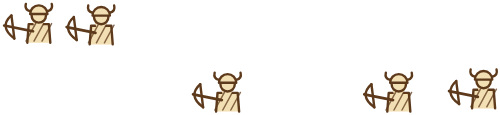
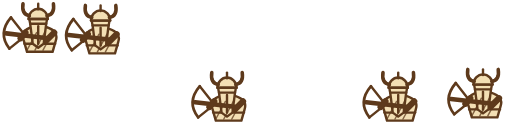
Redraw the rifle crew figures from the game models and their textures

diff --git a/tools/web_art.py b/tools/web_art.py
@@ -888,37 +888,116 @@ def aboard_frames():
 CREW_PLACES = [(x, y) for x, y in art.RIFLE_PLACES if (x, y + 2) != MALAKAI_AT]
 
 
-def crew_figure(kind, x, y, s=0.9):
-    """A dwarf of the crew at the rail, told apart by the outline: pirates bare-headed with a crest and a pistol in each hand, crossbowmen in a helm with
-    a crossbow, the others the panel's own dwarf with a long gun (thicker for the grudge-rakers, a tube for the torpedoes)."""
+# The figures of the rifle crews are drawn from the game's models (rendered front and side into build/crew_models/<kind>_ref.png; nothing of the
+# game is kept in the repository). What the models are, and what tells a kind apart when the figure is 20 px tall on the screen:
+#   a dwarf        1.4 to 1.5 high and 1.4 across the hanging arms; the head with its beard is a third of the height, the shoulders nearly as wide as
+#                  the dwarf is tall, the legs a quarter. Behind the rail he shows from the belt up: a wide block of shoulders, a big head set low.
+#   pirates        dwf_slayer_pirates: a bare bald head with a headscarf knotted behind, a huge moustache standing out to both sides, a beard in
+#                  thick plaits over a bare chest, bracers; no helm, no crest. A flintlock pistol with a flared muzzle, half his height, in each hand.
+#                  Told by: bare skin, the moustache's bar across the face, two short guns held out.
+#   quarrellers, thunderers, grudge-rakers    one body (dwf_warriors): a round helm with two horns up and a spike, a plaited beard to the belt, mail,
+#                  a skirt. Told only by the weapon: the crossbow (0.9 long, its bow 0.77 across), the rifle (1.3, nearly his height, thin), the
+#                  grudge-raker (1.4, a thick bundle of barrels with a drum behind).
+#   torpedoes      dwf_irondrakes: a flat-topped closed helm with eye slits and no horns, a square beard of plates, heavy pauldrons, an apron. The
+#                  drakegun is a fat tank 1.2 long with a thin nozzle. Told by: the flat helm, the square shoulders, the barrel-thick gun.
+# Colours from the models' own base colour textures (decoded into build/crew_models/tex, not kept): the pirate's skin a warm pink tan, his beard
+# ginger, his headscarf red (it is on the head's texture, with the knot's tails in the mesh); the warriors' mail silver grey with gold trim, the
+# beard brown, the helm steel with bone horns; the irondrake's plate blue steel with gold, his drakegun copper; the thunderers' rifle grey steel on
+# a brown stock; the grudge-raker steel barrels under much brass.
+SKIN, GINGER, SCARF = "#d48e66", "#b5622a", "#a8261a"
+MAIL, GOLD, BROWN, BONE, HELM = "#8f9296", "#c9a23c", "#6e4a2a", "#e8dcc0", "#7d7870"
+PLATE, DRAKE, WOOD, BARREL = "#66727c", "#a8623c", "#6b4320", "#3d3a36"
+
+
+def crew_figure(kind, x, y, s=1.0, detail=True):
+    """A dwarf of a rifle crew at the rail, from the belt up, turned to the bow (left), after the game's model of its unit (see above): sloping
+    shoulders wider than the head, the arms holding the weapon. detail False: without the small strokes (plaits, bands, trim)."""
+    P = lambda dx, dy: f"{x + dx * s:.1f} {y + dy * s:.1f}"
+    line = lambda d, w=1.0, fill="none", color=art.INK: art.path(d, w * s, color, fill)
+
+    def limb(d, colour, w=3.4):         # an arm: the colour inside an ink line
+        return [line(d, w + 1.6), line(d, w, color=colour)]
+
+    out = []
+    warrior = kind in ("quarrellers", "thunderers", "rakers")
+    cloth = {"pirates": SKIN, "torpedoes": PLATE}.get(kind, MAIL)
+    # the far arm and what lies behind the body
+    if kind == "pirates":               # the far arm bent up, its pistol held muzzle up beside the head
+        out += limb(f"M{P(9, -12)} L{P(14, -10)} L{P(15, -17)}", SKIN)
+        out.append(line(f"M{P(14, -15)} L{P(16.5, -18)} L{P(16, -28)}", 2.2, color=BARREL))
+        out.append(line(f"M{P(14, -28.5)} L{P(18, -28.5)}", 1.6, color=BARREL))
+    # the body: shoulders sloping from the neck, wider than the head
+    out.append(line(f"M{P(-8, 0)} L{P(-10, -7)} Q {P(-12.5, -13)} {P(-5, -15.5)} L{P(4, -15.5)} Q {P(12, -13)} {P(10, -7)} L{P(8, 0)} Z", 1.1, cloth))
     if kind == "pirates":
-        out = [art.path(f"M{x - 9 * s:.1f} {y - 9 * s:.1f} L{x - 19 * s:.1f} {y - 13 * s:.1f} L{x - 19 * s:.1f} {y - 9 * s:.1f}", 2.0 * s),
-               art.path(f"M{x + 9 * s:.1f} {y - 9 * s:.1f} L{x + 18 * s:.1f} {y - 15 * s:.1f} L{x + 20 * s:.1f} {y - 11 * s:.1f}", 2.0 * s)]
-        # no helm and no horns (the last stroke of the panel's dwarf): a bare head under a red kerchief with its knot, a short crest; Malakai beside them
-        # keeps the tall crest and the horned helm
-        out += art.dwarf(x, y, s, -1, False, helm="#a8261a", beard="#c8501a")[:-1]
-        out.append(art.path(f"M{x + 6 * s:.1f} {y - 21 * s:.1f} L{x + 11 * s:.1f} {y - 19 * s:.1f} M{x + 6 * s:.1f} {y - 21 * s:.1f} L{x + 10 * s:.1f} {y - 24 * s:.1f}", 1.3 * s, "#a8261a"))
-        out.append(art.path(f"M{x - 1.5 * s:.1f} {y - 25 * s:.1f} L{x:.1f} {y - 30 * s:.1f} L{x + 1.5 * s:.1f} {y - 25 * s:.1f}", 1.4 * s, "#c8501a"))
-        return out
-    if kind == "quarrellers":
-        out = art.dwarf(x, y, s, -1, False, helm="#6b6258", beard="#8a6a3c")
-        sx, sy = x - 16 * s, y - 10 * s           # the crossbow held across the rail: the stock, the bow as an arc, the string
-        out.append(art.path(f"M{x - 4 * s:.1f} {y - 8 * s:.1f} L{x - 24 * s:.1f} {y - 12 * s:.1f}", 2.2 * s))
-        out.append(art.path(f"M{sx - 3 * s:.1f} {sy - 9 * s:.1f} Q {sx - 12 * s:.1f} {sy - 1 * s:.1f} {sx - 1 * s:.1f} {sy + 7 * s:.1f}", 1.6 * s))
-        out.append(art.path(f"M{sx - 3 * s:.1f} {sy - 9 * s:.1f} L{sx - 1 * s:.1f} {sy + 7 * s:.1f}", 0.7 * s))
-        return out
-    if kind == "torpedoes":
-        # an irondrake: a steel helm, no long gun, the torpedo's tube on the shoulder under the chin, its copper head forward
-        out = art.dwarf(x, y, s, -1, False, helm="#57504a")
-        out.append(art.path(f"M{x + 9 * s:.1f} {y - 8 * s:.1f} L{x - 21 * s:.1f} {y - 12.5 * s:.1f}", 5.0 * s, art.STEEL))
-        out.append(art.dot(x - 22.5 * s, y - 12.7 * s, 3.6 * s, art.COPPER))
-        return out
-    out = art.dwarf(x, y, s)
-    if kind == "rakers":
-        # the grudge-raker: a bundle of barrels at the gun's end, two more strokes beside the gun and a band round them
-        for d in (-2.6, 2.6):
-            out.append(art.path(f"M{x - 9 * s:.1f} {y - 10.5 * s + d * s:.1f} L{x - 22 * s:.1f} {y - 14 * s + d * s:.1f}", 1.7 * s))
-        out.append(art.path(f"M{x - 15 * s:.1f} {y - 16 * s:.1f} L{x - 14 * s:.1f} {y - 8 * s:.1f}", 1.5 * s))
+        out.append(line(f"M{P(-8.4, -1.6)} L{P(8.4, -1.6)}", 2.0, color=WOOD))                       # the wide belt
+    if warrior and detail:
+        out.append(line(f"M{P(-9.6, -5)} L{P(9.6, -5)}", 0.8, color=GOLD))
+    if kind == "torpedoes":             # the pauldrons, rounded plates with a gold edge
+        for sx in (-1, 1):
+            out.append(line(f"M{P(sx * 5, -16.5)} Q {P(sx * 13, -17.5)} {P(sx * 13.5, -9)} L{P(sx * 7, -9.5)} Z", 1.0, PLATE))
+            out.append(line(f"M{P(sx * 13.5, -9)} L{P(sx * 7, -9.5)}", 1.1, color=GOLD))
+    # the head, set low
+    out.append(art.circle(x - 1 * s, y - 19.5 * s, 5.4 * s, 1.0 * s, art.INK, SKIN if kind == "pirates" else "#e3b08a"))
+    if kind == "pirates":
+        # the red headscarf over the skull with its knot behind; the plaited ginger beard down the bare chest; the moustache, wider than the head
+        out.append(line(f"M{P(-6.4, -21)} A {5.4 * s:.1f} {5.4 * s:.1f} 0 0 1 {P(4.4, -21)} Z", 0.9, SCARF))
+        out.append(line(f"M{P(4.2, -22)} L{P(8.5, -24.5)} M{P(4.2, -22)} L{P(9, -20.5)}", 1.3, color=SCARF))
+        out.append(art.dot(x - 3.4 * s, y - 19.6 * s, 0.8 * s))
+        out.append(line(f"M{P(-4.5, -15)} L{P(2.5, -15)} L{P(1.6, -4)} L{P(-1, -7)} L{P(-3.6, -4)} Z", 0.9, GINGER))
+        out.append(line(f"M{P(-1, -17.2)} Q {P(-7, -14.2)} {P(-13, -19.5)} M{P(-1, -17.2)} Q {P(5, -14.2)} {P(11, -19.5)}", 3.4))
+        out.append(line(f"M{P(-1, -17.2)} Q {P(-7, -14.2)} {P(-13, -19.5)} M{P(-1, -17.2)} Q {P(5, -14.2)} {P(11, -19.5)}", 2.0, color=GINGER))
+    elif warrior:
+        # the steel helm with its gold rim, the spike, two bone horns turned up; the brown beard to the belt
+        out.append(line(f"M{P(-7, -20.5)} A {6 * s:.1f} {6.4 * s:.1f} 0 0 1 {P(5, -20.5)} Z", 1.0, HELM))
+        out.append(line(f"M{P(-7, -20.5)} L{P(5, -20.5)}", 1.2, color=GOLD))
+        out.append(line(f"M{P(-1, -26.5)} L{P(-1, -30)}", 1.4))
+        for sx, hx in ((-1, -6.5), (1, 4.5)):
+            d = f"M{P(hx, -22.5)} Q {P(hx + sx * 5, -23.5)} {P(hx + sx * 4, -30)}"
+            out += [line(d, 2.6), line(d, 1.3, color=BONE)]
+        out.append(line(f"M{P(-6, -17.5)} L{P(4, -17.5)} L{P(2.4, -5)} L{P(-1, -2.5)} L{P(-4.4, -5)} Z", 0.9, BROWN))
+        if detail:
+            out.append(line(f"M{P(-1, -16)} L{P(-1, -5)}", 0.6, color=BONE))
+    else:
+        # the irondrake: a flat-topped closed helm with a gold band and a slit, no horns; the beard a square below it
+        out.append(line(f"M{P(-8, -18)} L{P(-8, -27)} L{P(6, -27)} L{P(6, -18)} Z", 1.1, PLATE))
+        out.append(line(f"M{P(-8, -25)} L{P(6, -25)}", 1.2, color=GOLD))
+        out.append(line(f"M{P(-6, -21.8)} L{P(-0.5, -21.8)}", 1.5))
+        out.append(line(f"M{P(-6.5, -18)} L{P(4.5, -18)} L{P(4.5, -9)} L{P(-6.5, -9)} Z", 0.9, GINGER))
+    # the near arm and the weapon before the body
+    if kind == "pirates":
+        # the near arm held out level, the pistol half his height, its muzzle flared
+        out += limb(f"M{P(-9, -12)} L{P(-16, -11)}", SKIN)
+        out.append(line(f"M{P(-15, -8)} L{P(-16.5, -12)} L{P(-27, -13)}", 2.3, color=BARREL))
+        out.append(line(f"M{P(-27.5, -15.2)} L{P(-27.5, -10.8)}", 1.7, color=BARREL))
+    elif kind == "quarrellers":
+        # the crossbow level before him: the brown stock, the steel bow across its end, the string
+        out.append(line(f"M{P(5, -8.5)} L{P(-21, -11.5)}", 3.4))
+        out.append(line(f"M{P(5, -8.5)} L{P(-21, -11.5)}", 2.0, color=WOOD))
+        out.append(line(f"M{P(-18, -21.5)} Q {P(-26.5, -11.5)} {P(-19, -2)}", 2.0, color=BARREL))
+        out.append(line(f"M{P(-18, -21.5)} L{P(-9, -10)} L{P(-19, -2)}", 0.6))
+        out += limb(f"M{P(-9, -12)} L{P(-12, -8.5)}", MAIL, 3.0) + limb(f"M{P(9, -12)} L{P(4, -7)}", MAIL, 3.0)
+    elif kind == "thunderers":
+        # the long rifle at the shoulder, aimed: the brown stock under the cheek, a thin steel barrel almost his height, gold bands
+        out.append(line(f"M{P(9, -12)} L{P(2, -14.5)}", 4.6))
+        out.append(line(f"M{P(9, -12)} L{P(2, -14.5)}", 3.2, color=WOOD))
+        out.append(line(f"M{P(2, -14.5)} L{P(-33, -18.5)}", 1.7, color=BARREL))
+        if detail:
+            out.append(line(f"M{P(-12, -17.4)} L{P(-12, -14.8)} M{P(-24, -18.8)} L{P(-24, -16.2)}", 1.2, color=GOLD))
+        out += limb(f"M{P(-9, -12)} L{P(-15, -14.5)}", MAIL, 3.0) + limb(f"M{P(9, -11)} L{P(5, -13)}", MAIL, 3.0)
+    elif kind == "rakers":
+        # the grudge-raker at the hip: a thick bundle of dark barrels bound in brass, a big brass drum by the hand
+        for d in (-2.6, 0, 2.6):
+            out.append(line(f"M{P(3, -6.5 + d)} L{P(-26, -8.5 + d)}", 2.0, color=BARREL))
+        out.append(line(f"M{P(-12, -11.5)} L{P(-12, -3.8)} M{P(-22, -12)} L{P(-22, -4.4)}", 1.8, color=GOLD))
+        out.append(art.circle(x - 1 * s, y - 6.5 * s, 4.8 * s, 1.0 * s, art.INK, GOLD))
+        out += limb(f"M{P(-9, -12)} L{P(-9, -7)}", MAIL, 3.0) + limb(f"M{P(9, -12)} L{P(5, -7)}", MAIL, 3.0)
+    else:
+        # the drakegun at the hip: a fat copper tank, a thin nozzle with a bright head far out
+        out.append(line(f"M{P(9, -1.5)} L{P(9, -8.5)} Q {P(0, -11)} {P(-11, -10.5)} L{P(-11, -3.5)} Q {P(0, -1)} {P(9, -1.5)} Z", 1.1, DRAKE))
+        out.append(line(f"M{P(-11, -7)} L{P(-26, -8.5)}", 2.0, color=BARREL))
+        out.append(art.dot(x - 27 * s, y - 8.6 * s, 2.4 * s, GOLD))
+        if detail:
+            out.append(line(f"M{P(3, -9.6)} L{P(3, -1.6)} M{P(-5, -10.6)} L{P(-5, -2.6)}", 1.0, color=GOLD))
     return out
 
 
